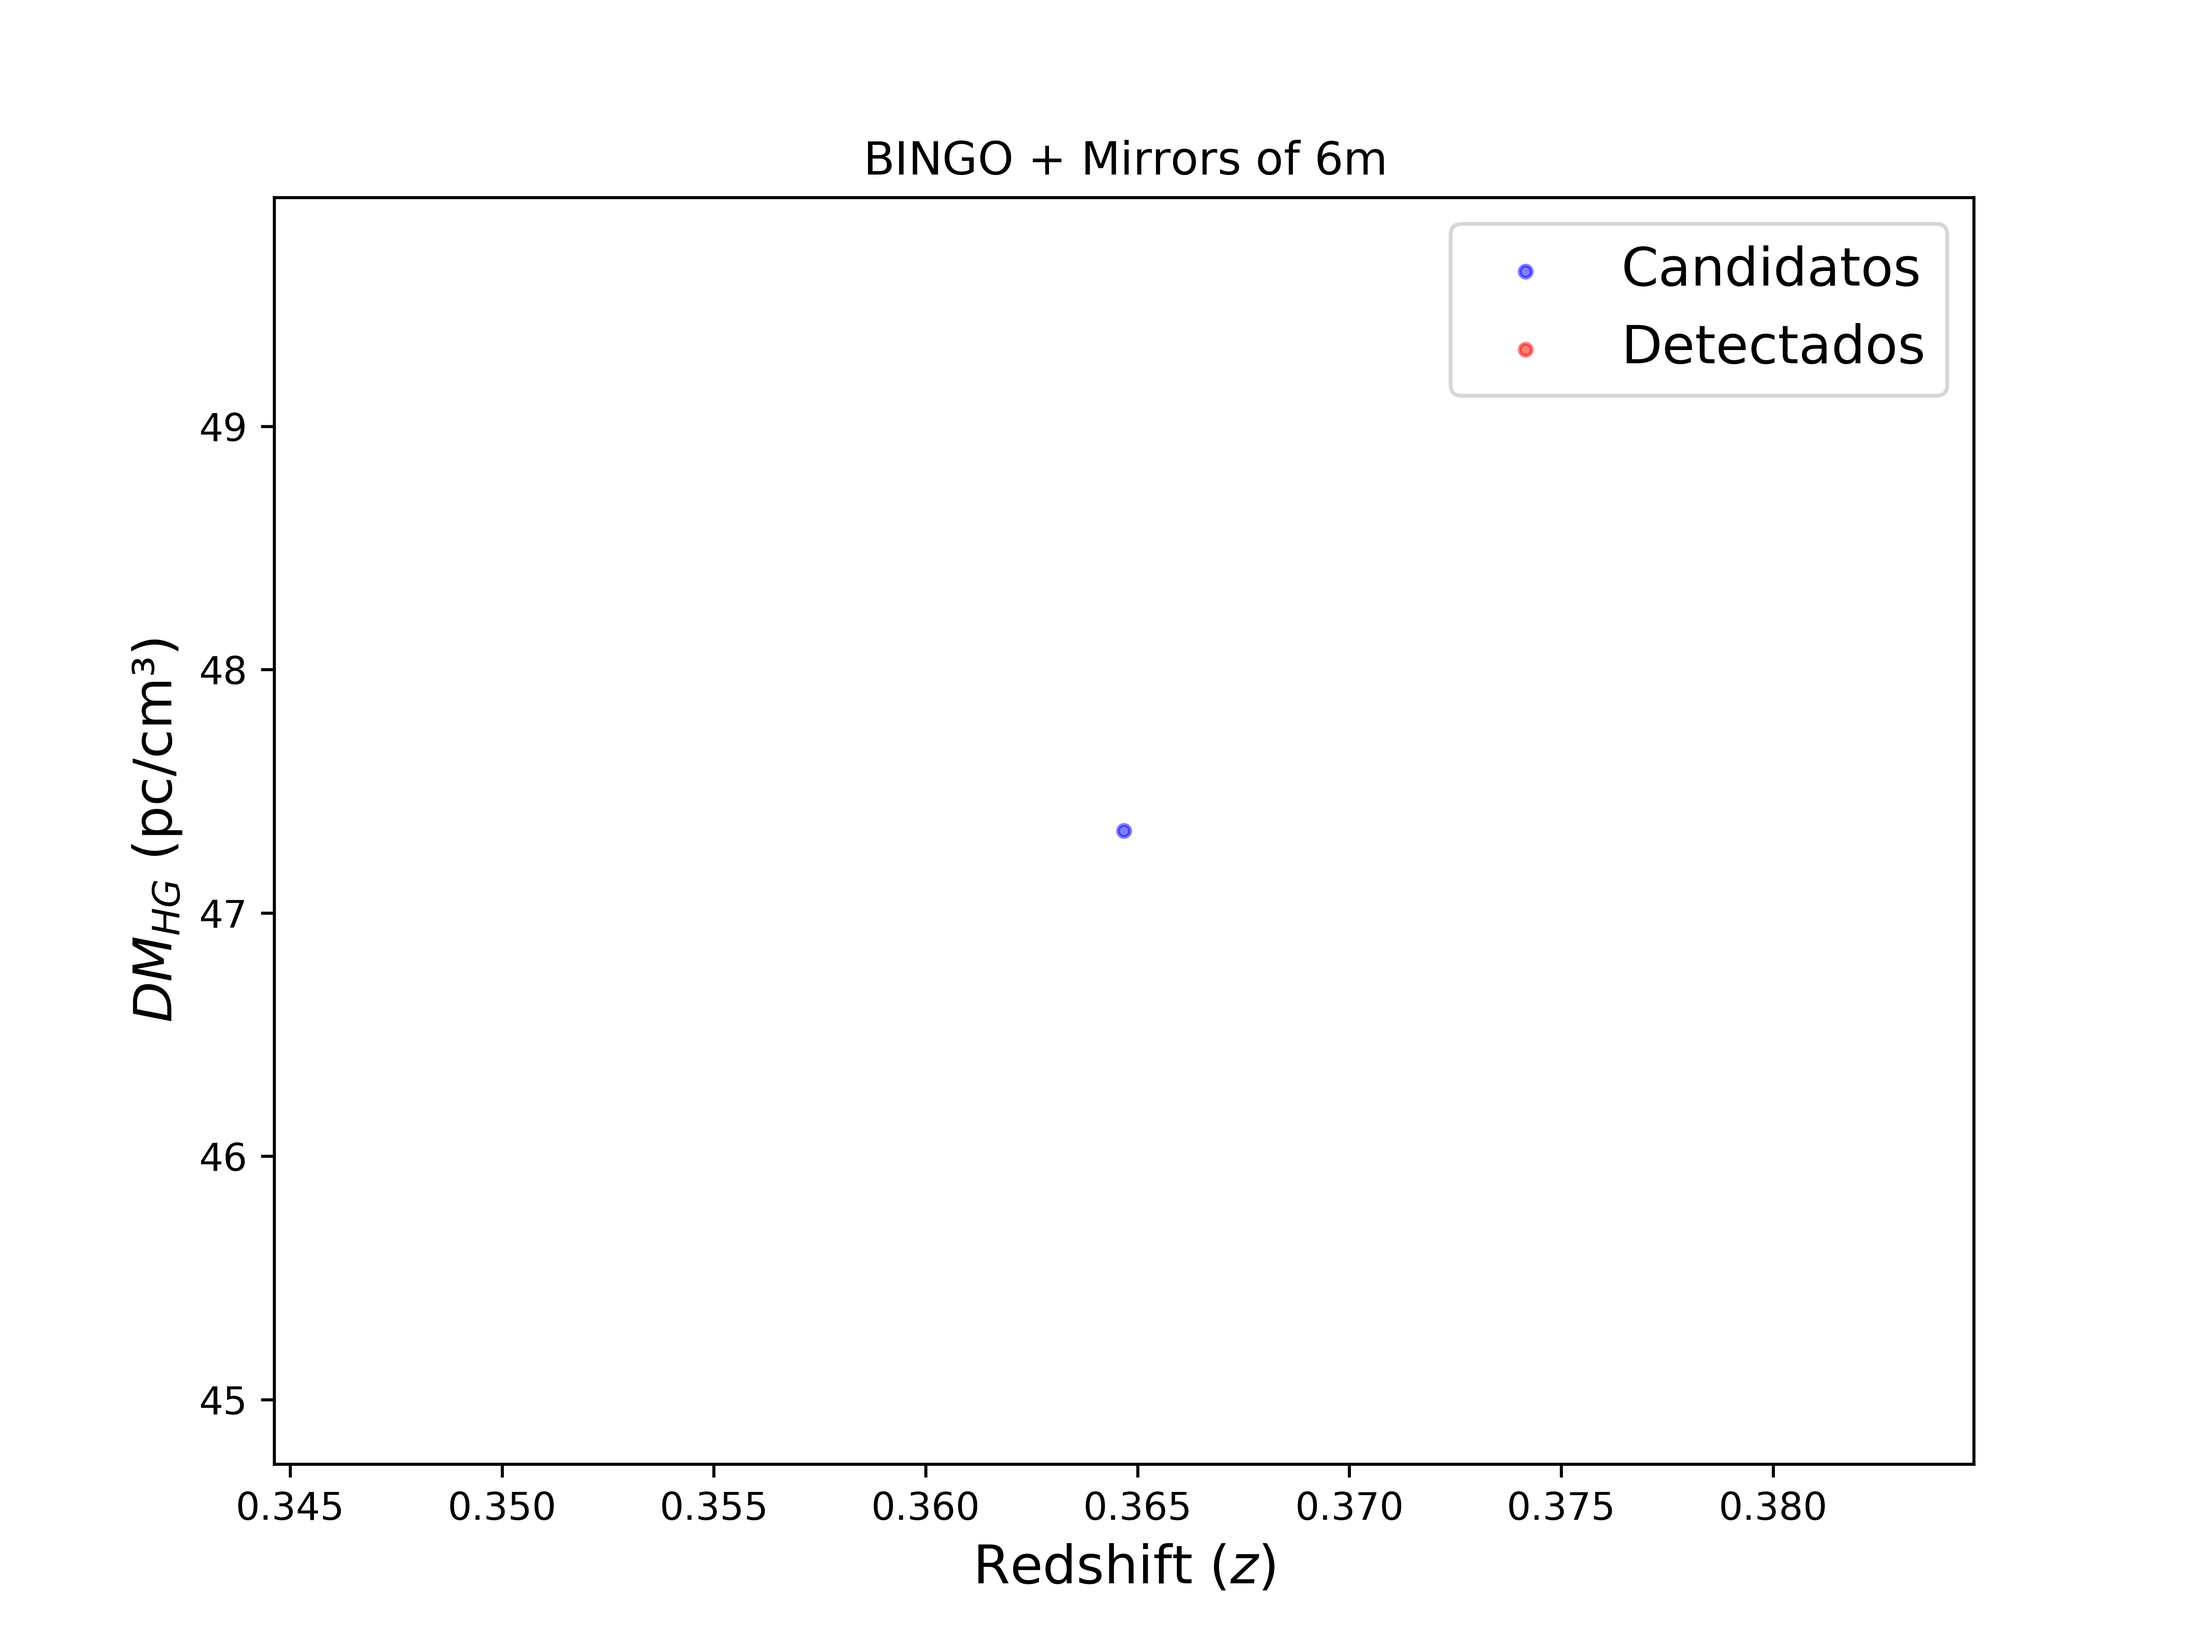
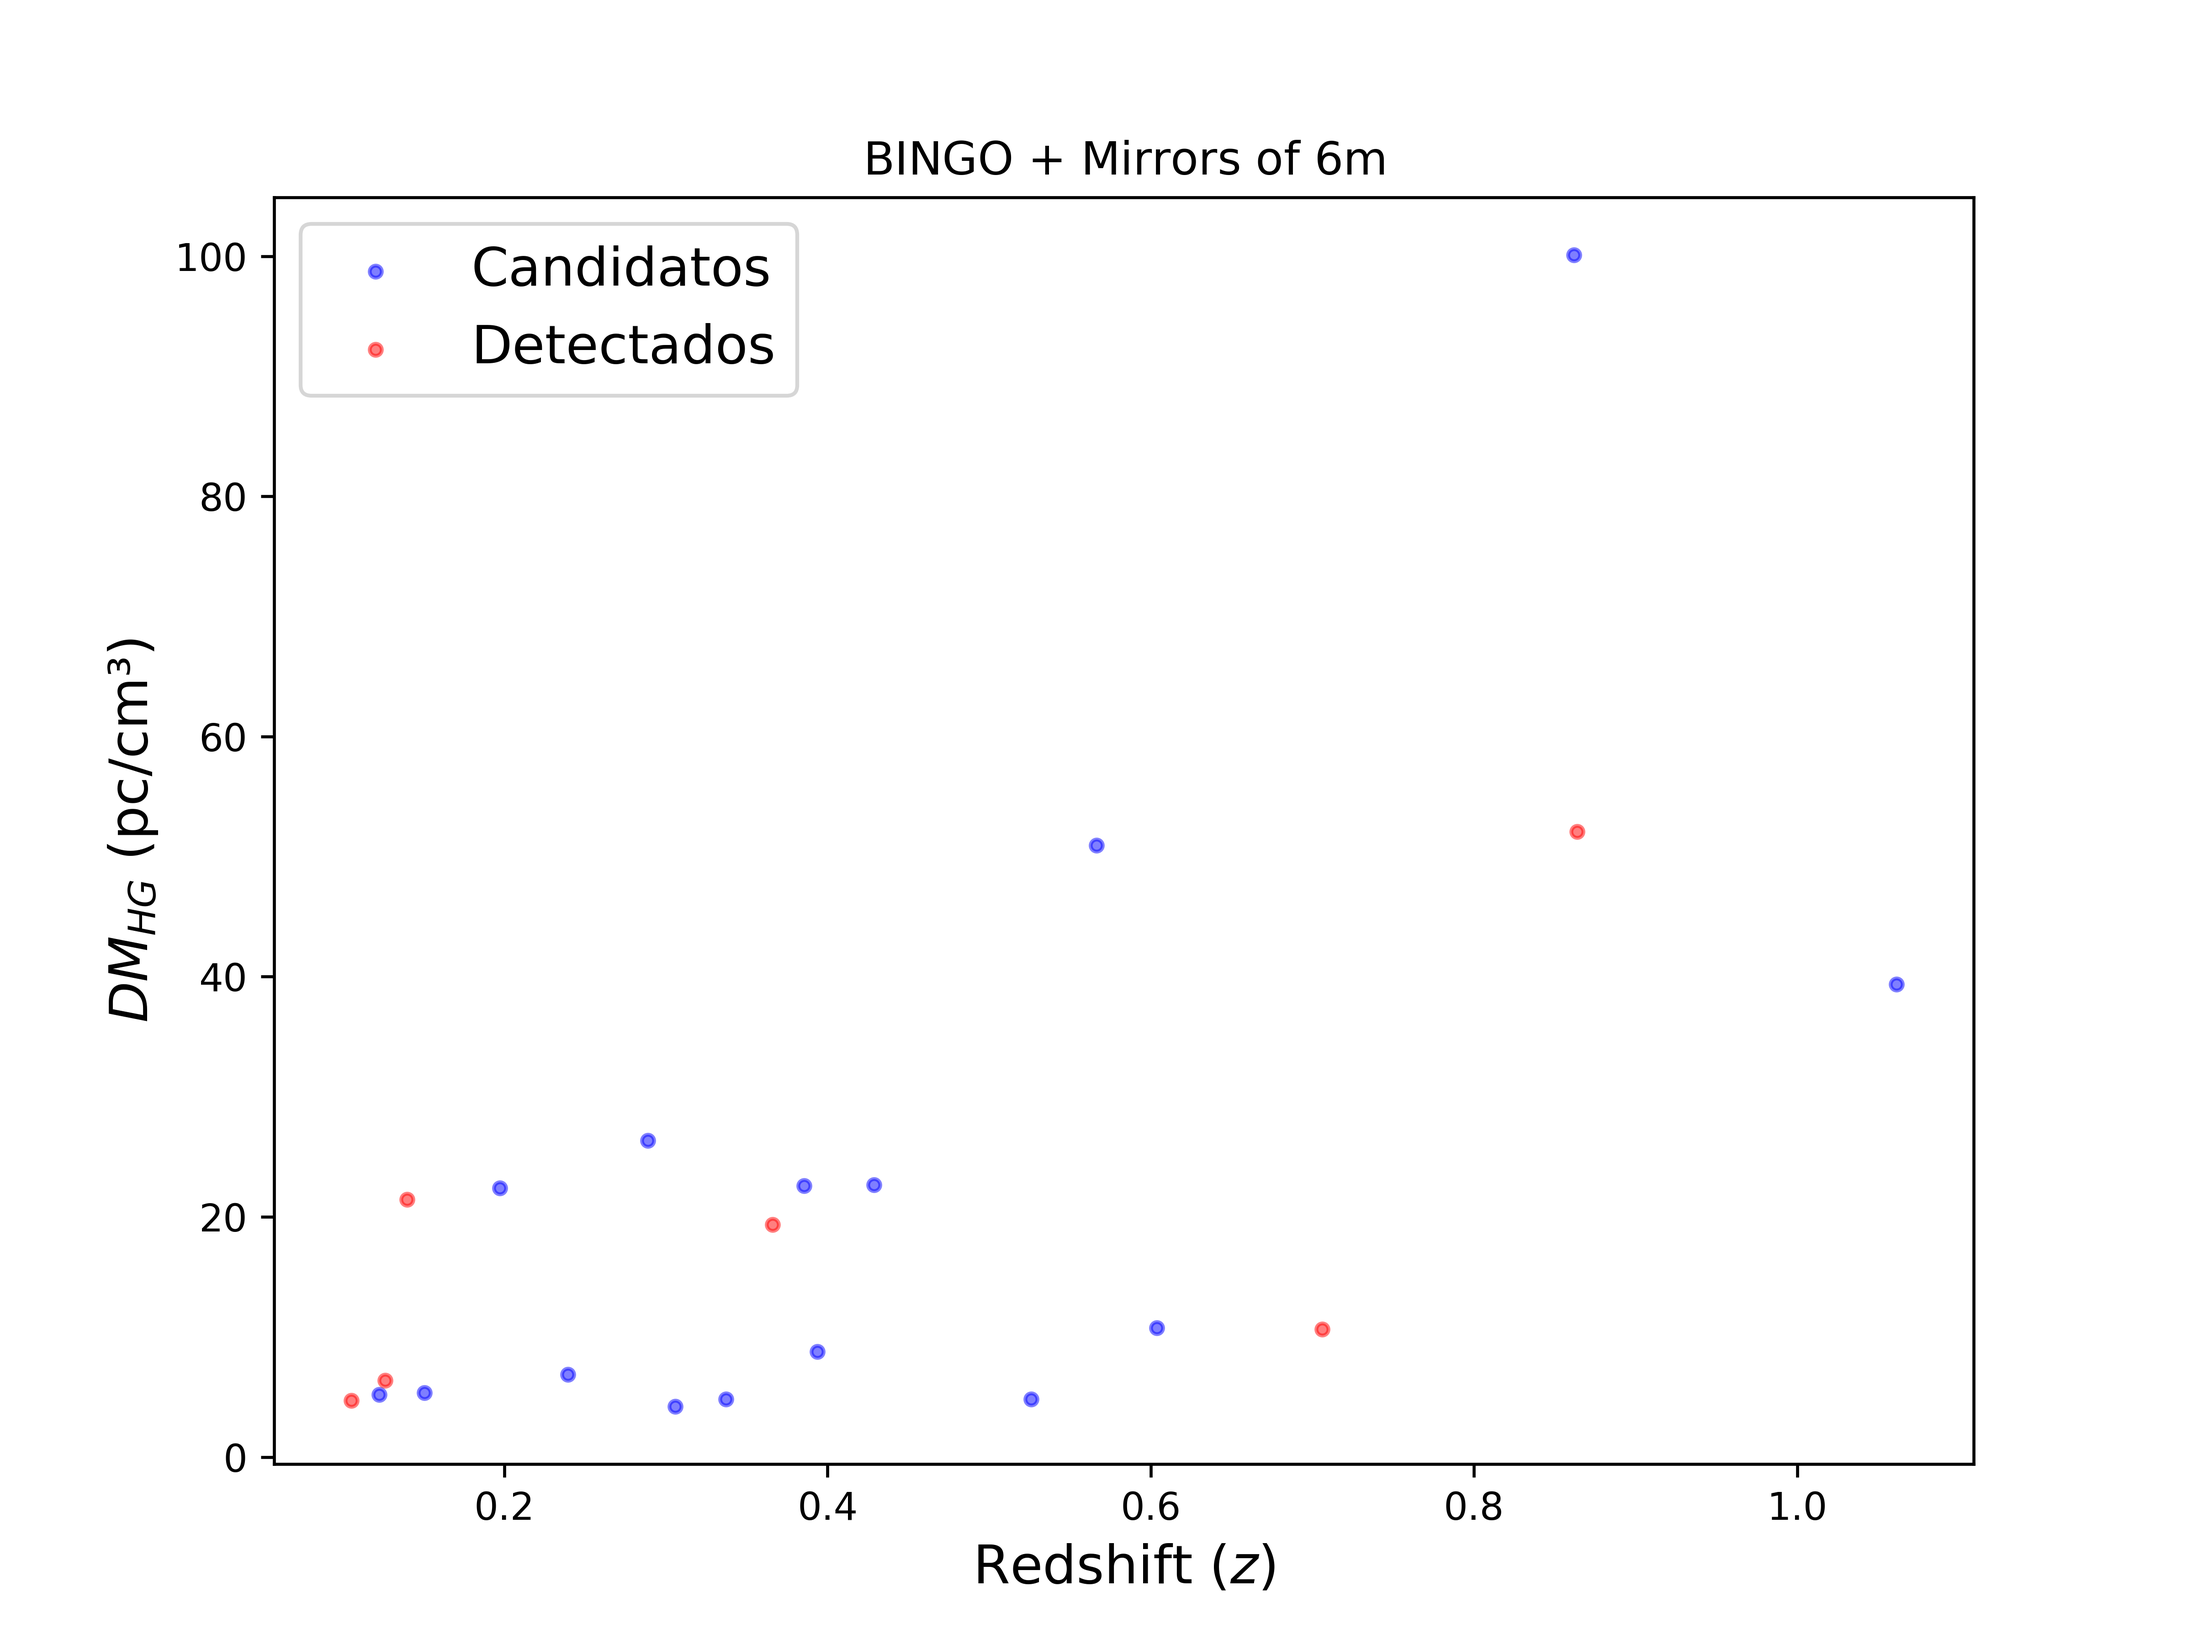
updates

diff --git a/Script_Gabriel/frb_counter_nakedHorn.py b/Script_Gabriel/frb_counter_nakedHorn.py
@@ -62,7 +62,7 @@ output_details    = '/home/lazarolima/Script_Gabriel/frb_details.dat'
 
 # Number of days and cpus
 cpus = 6
-days = 10
+days = 5
 
 # Beams information (except BINGO beams) 
 num_stations  = 1
@@ -82,7 +82,7 @@ localization_per_baseline_snr = 1.0
 
 # Cosmology and observarion
 spectral_index = 0.0     # Spectral Index distribution.
-zmax           = 6    # z max for FRB in cosmological FRBs
+zmax           = 10    # z max for FRB in cosmological FRBs
 dec            = (-90.0,90.0) # Survey dec
 
 # DM_host model
@@ -158,11 +158,11 @@ with pymp.Parallel(cpus) as P:
         candidates_matrix.append([[],[],[],[],[],[],[],[],[],[],[],[]]) #Day, No, redshift, logL, alt, az, DM, candidate?, detected?, in 1baseline?, in 2 baselines?, by BINGO?
         #np.random.seed(i + int(seed_starter))
         np.random.seed(0)
-        mock = FastRadioBursts(verbose = True, spectral_index = spectral_index, zmax = zmax, host_model = host_model, host_dist = host_dist, dec_range = dec)
+        mock = FastRadioBursts(random_state=42, duration=days, verbose = True, spectral_index = spectral_index, zmax = zmax, host_model = host_model, host_dist = host_dist, dec_range = dec)
         #altaz = mock.altaz(main_location)
         #mock.observe(telescopes, altaz = altaz, verbose = False)
-        mock.observe(telescopes, verbose = False)
-        mock.interferometry('MAIN', 'ARRAY')
+        mock.observe(telescopes, verbose = False, location=main_location)
+        mock.interferometry('MAIN', 'ARRAY', overwrite=True)
         #mock.interferometry('ARRAY')
 
 
